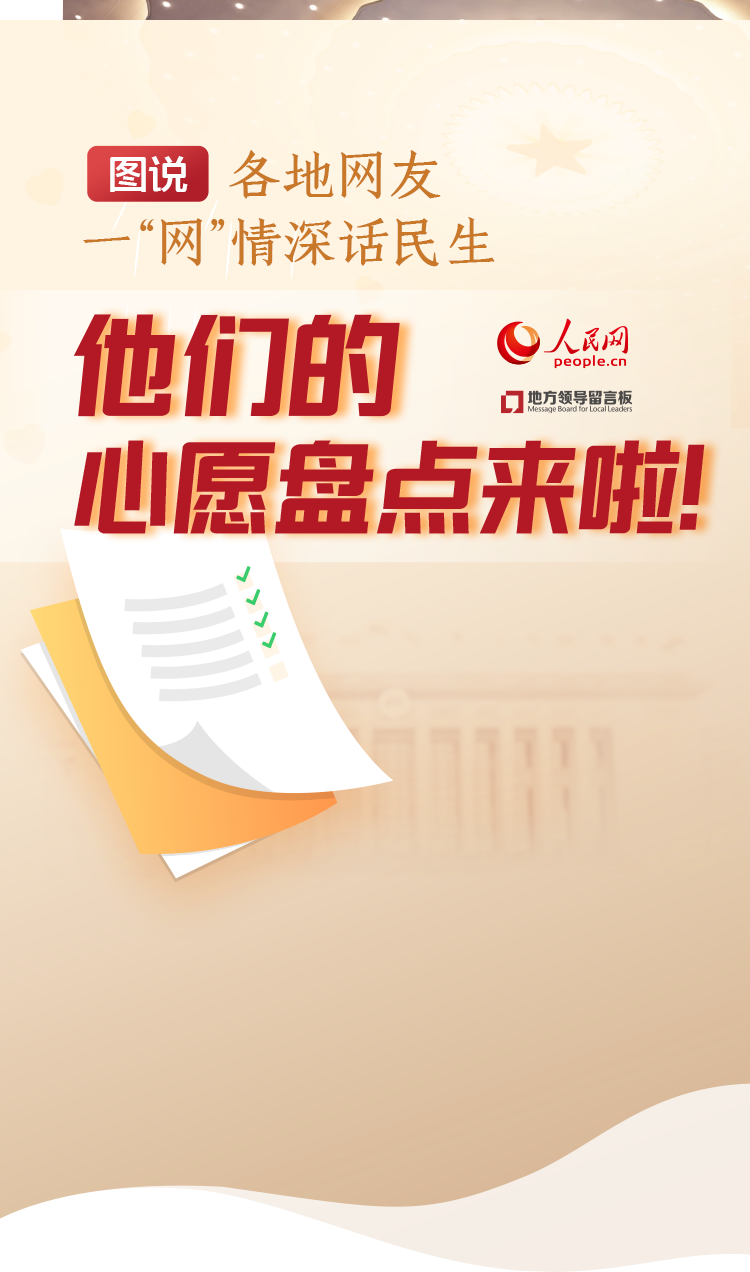
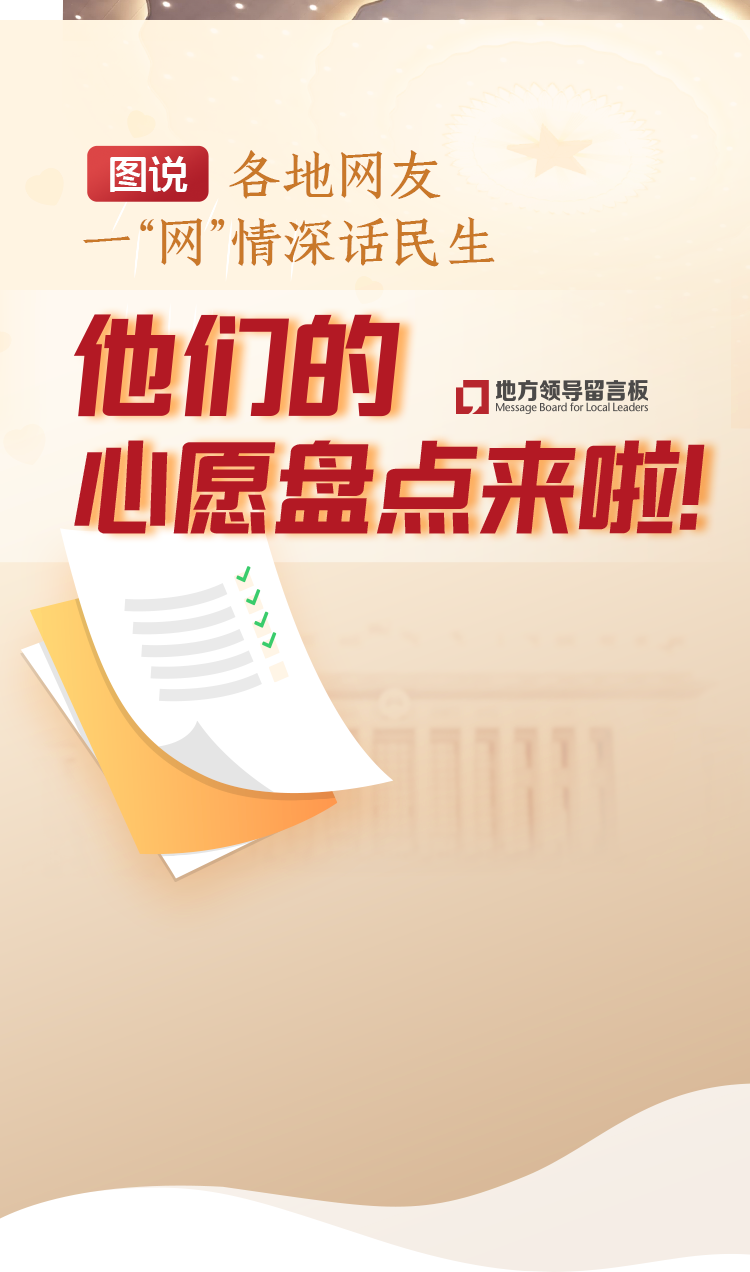
确认

Changed region(s): [[0.5827, 0.2453, 0.8587, 0.3373]]

diff --git a/dist/index.html b/dist/index.html
@@ -42,12 +42,6 @@
         margin: 5px 10px;
       }
       
-      .ox-titleBar {
-        height: 40px;
-        line-height: 40px;
-        position: relative;
-      }
-      
       .ox-titleBar .content-item {
         float: left;
       }
@@ -244,8 +238,8 @@
       }
       
       .ox-footer .logo {
-        height: 100%;
         width: 50%;
+        height: 100%;
         background-position: center;
         background-repeat: no-repeat;
         background-image: url('./static/resource/difang-logo.png');
@@ -255,6 +249,7 @@
         height: 160px;
         margin: 30px 0;
         width: 50%;
+        position: relative;
       }
       
       .ox-footer .qr-box img {
@@ -268,6 +263,15 @@
         text-align: center;
         line-height: 20px;
         font-size: 14px;
+      }
+      
+      .ox-footer .qr-item {
+        width: 330px;
+        height: 100%;
+        position: absolute;
+        left: 0;
+        right: 0;
+        margin: auto;
       }
       .ox-copyright {
         height: 170px;
@@ -299,7 +303,7 @@
         background-color: rgba(0, 0, 0, 0.7);
         z-index: 10;
         overflow: auto;
-        transition: top 0.5s linear;
+        transition: top 0.2s linear;
         padding: 10%;
       }
       
@@ -308,12 +312,13 @@
       }
       
       .ox-showBox .close-button {
-        position: absolute;
+        position: fixed;
         background-image: url('./static/resource/close.png');
         width: 25px;
         height: 25px;
-        right: 65px;
+        right: 2%;
         top: 20px;
+        display: none;
         background-size: 25px;
       }
       .ox-home {
@@ -356,7 +361,7 @@
     </div>
   </div>
     <div class="banner-box ox-banner" @name="bannerBox">
-    <div class="text-box">编者按：今年网友最关心哪些民生问题？要脱贫，要创业，要天更蓝，期待更有质量的教育……<br>在人民网推出的“2019两会来了 我托书记省长捎句话”活动中，各地网友以25万条留言，说出了他们的看法与期待，一起来看看吧！</div>
+    <div class="text-box">今年网友最关心哪些民生问题？要脱贫，要创业，要天更蓝，期待更有质量的教育……两会期间，各地网友通过人民网《地方领导留言板》说出了他们的看法与期待，一起来看看吧！</div>
   </div>
     <div class="title care"></div>
     <session class="ox-tagCloud"><div id="myCanvasContainer" class="tag-cloud-box">
@@ -411,19 +416,21 @@
     <div class="content">
       <div class="logo content-item"></div>
       <div class="qr-box content-item">
-        <div class="qr-box-item left">
-          <img src="./static/resource/qr.png">
-          <div class="text">微信小程序</div>
+        <div class="qr-item">
+          <div class="qr-box-item left">
+            <img src="./static/resource/xcx.png">
+            <div class="text">微信小程序</div>
+          </div>
+          <div class="qr-box-item middle">
+            <img src="./static/resource/gzh.png">
+            <div class="text">微信公众号</div>
+          </div>
+          <div class="qr-box-item right">
+            <img src="./static/resource/khd.png">
+            <div class="text">客户端下载</div>
+          </div>
+          <div class="clear"></div>
         </div>
-        <div class="qr-box-item middle">
-          <img src="./static/resource/qr.png">
-          <div class="text">微信公众号</div>
-        </div>
-        <div class="qr-box-item right">
-          <img src="./static/resource/qr.png">
-          <div class="text">客户端下载</div>
-        </div>
-        <div class="clear"></div>
       </div>
       <div class="clear"></div>
     </div>
@@ -436,7 +443,7 @@
   </div>
     <div class="show-box ox-showBox" id="showBox">
     <img src="./static/resource/1.jpg" id="showBoxImage">
-    <div class="close-button" @click="close" template="showBox"></div>
+    <div class="close-button" id="closeButton" @click="close" template="showBox"></div>
   </div>
   </div>
     <!-- 页面脚本 -->

diff --git a/dist/static/js/ozzx.main.js b/dist/static/js/ozzx.main.js
@@ -383,6 +383,7 @@ window.ozzx = {
                   if (swiper.activeIndex == swiper.clickedSlideIndex - 1) {
                     var url = swiper.clickedSlide.children[0].src;
                     document.getElementById('showBoxImage').src = url;
+                    document.getElementById('closeButton').style.display = 'block';
                     document.getElementById('showBox').style.top = '0';
                   }
                 }
@@ -425,6 +426,7 @@ window.ozzx = {
         "showBox": {
           "created": function created() {},
           "close": function close() {
+            document.getElementById('closeButton').style.display = 'none';
             document.getElementById('showBox').style.top = '100%';
           }
         }

diff --git a/dist/static/css/main.css b/dist/static/css/main.css
@@ -30,10 +30,17 @@ a:link {
   width: 100%;
   overflow-x: hidden;
 }
+.main-box {
+  position: relative;
+}
 .ox-titleBar {
   position: absolute;
   background-color: white;
   width: 100%;
+  top: 0;
+  left: 0;
+  height: 40px;
+  line-height: 40px;
   z-index: 9;
 }
 .min .ox-footer .logo {

diff --git a/src/main.css b/src/main.css
@@ -30,10 +30,17 @@ a:link {
   width: 100%;
   overflow-x: hidden;
 }
+.main-box {
+  position: relative;
+}
 .ox-titleBar {
   position: absolute;
   background-color: white;
   width: 100%;
+  top: 0;
+  left: 0;
+  height: 40px;
+  line-height: 40px;
   z-index: 9;
 }
 .min .ox-footer .logo {
